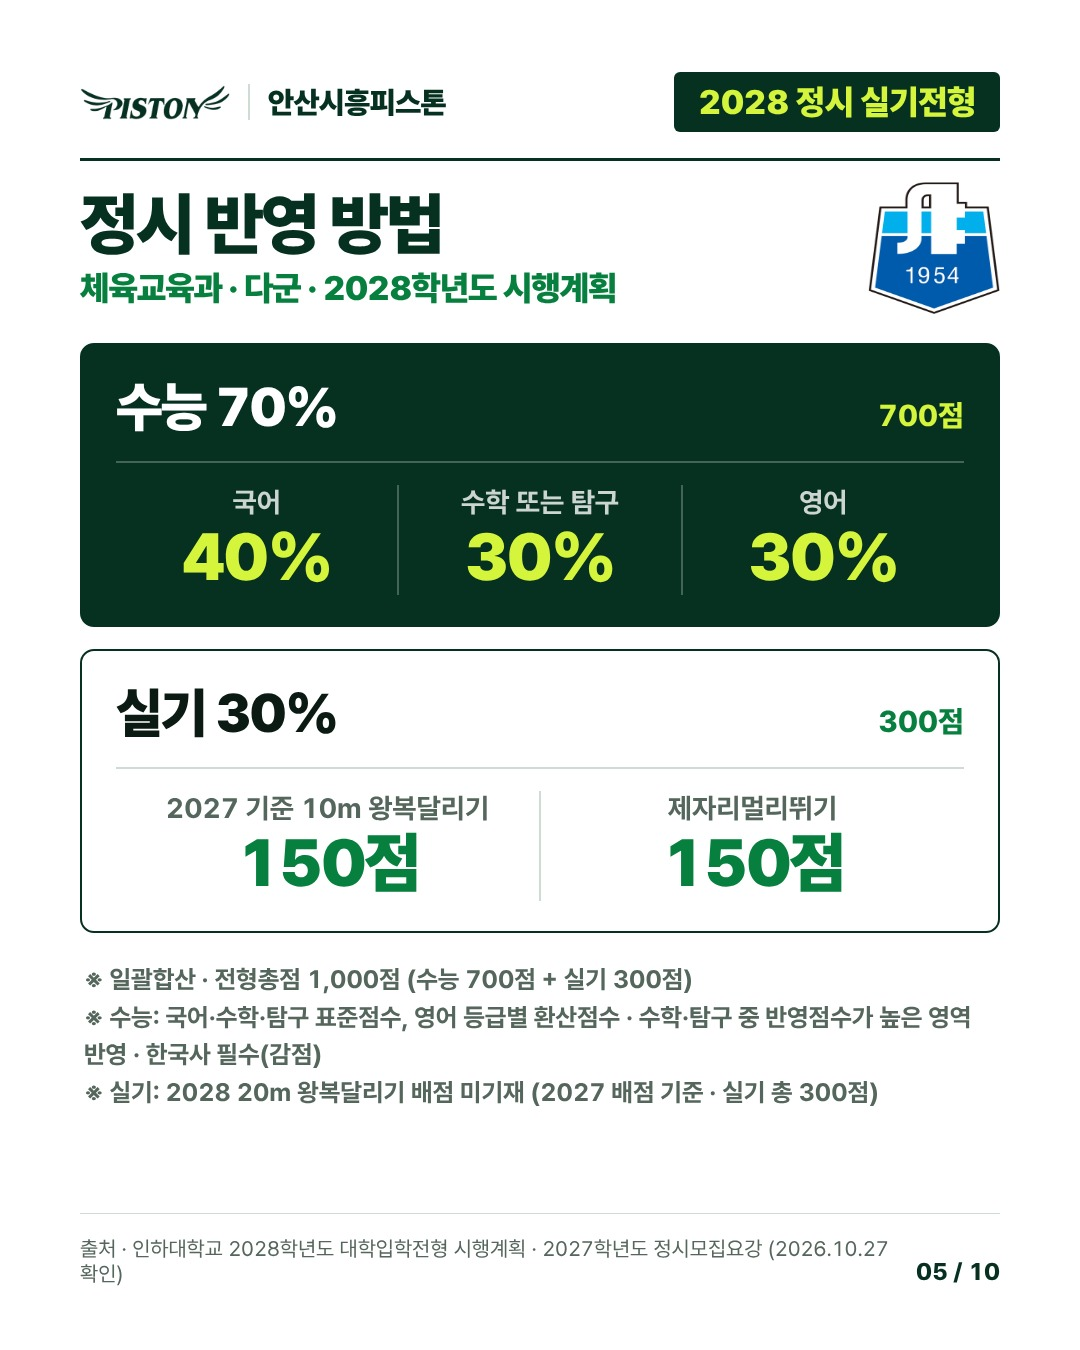
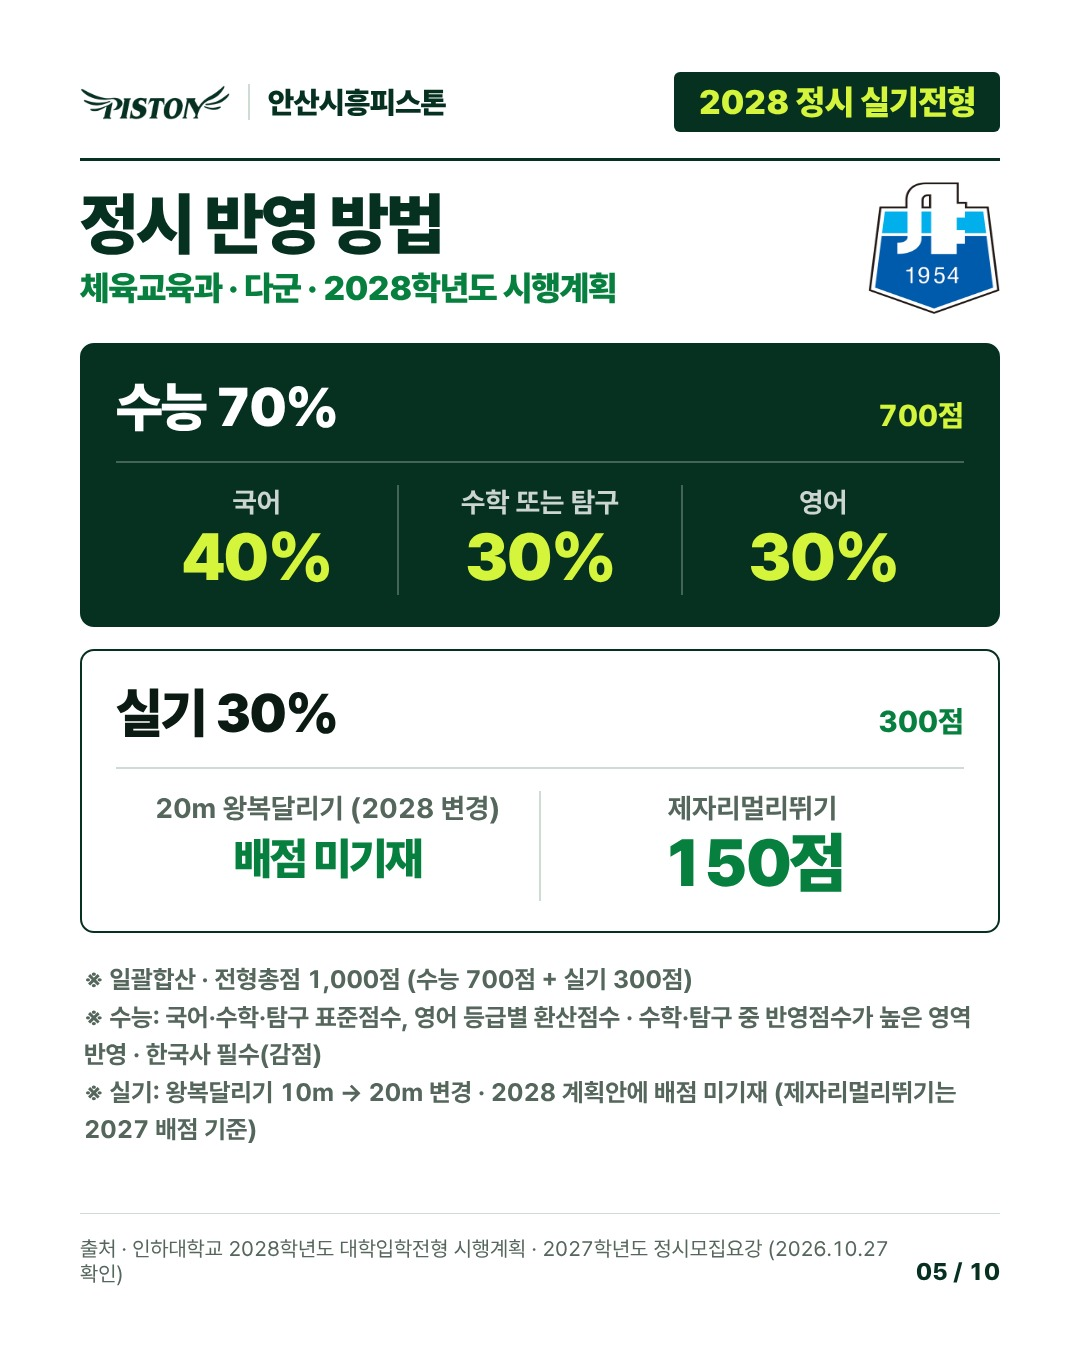
inha 체육교육과: 20m 왕복달리기 표기
Claude-Session: https://claude.ai/code/session_01EGTn7G8nWP1yv5M2jqmoFb

Changed region(s): [[0.0917, 0.7778, 0.8861, 0.84], [0.1528, 0.5911, 0.4583, 0.6844]]

diff --git a/social/out/inha-jeongsi-jeongsi/blog.md b/social/out/inha-jeongsi-jeongsi/blog.md
@@ -53,11 +53,11 @@
 | 구분 | 비율 · 점수 | 반영 내용 |
 | --- | --- | --- |
 | 수능 | 70% · 700점 | 국어 40% · 수학 또는 탐구 30% · 영어 30% |
-| 실기 | 30% · 300점 | 2027 기준 10m 왕복달리기 150점 · 제자리멀리뛰기 150점 |
+| 실기 | 30% · 300점 | 20m 왕복달리기 (2028 변경)::배점 미기재 · 제자리멀리뛰기 150점 |
 
 ※ 일괄합산 · 전형총점 1,000점 (수능 700점 + 실기 300점)
 ※ 수능: 국어·수학·탐구 표준점수, 영어 등급별 환산점수 · 수학·탐구 중 반영점수가 높은 영역 반영 · 한국사 필수(감점)
-※ 실기: 2028 20m 왕복달리기 배점 미기재 (2027 배점 기준 · 실기 총 300점)
+※ 실기: 왕복달리기 10m → 20m 변경 · 2028 계획안에 배점 미기재 (제자리멀리뛰기는 2027 배점 기준)
 
 [이미지: post-5.jpg]
 
